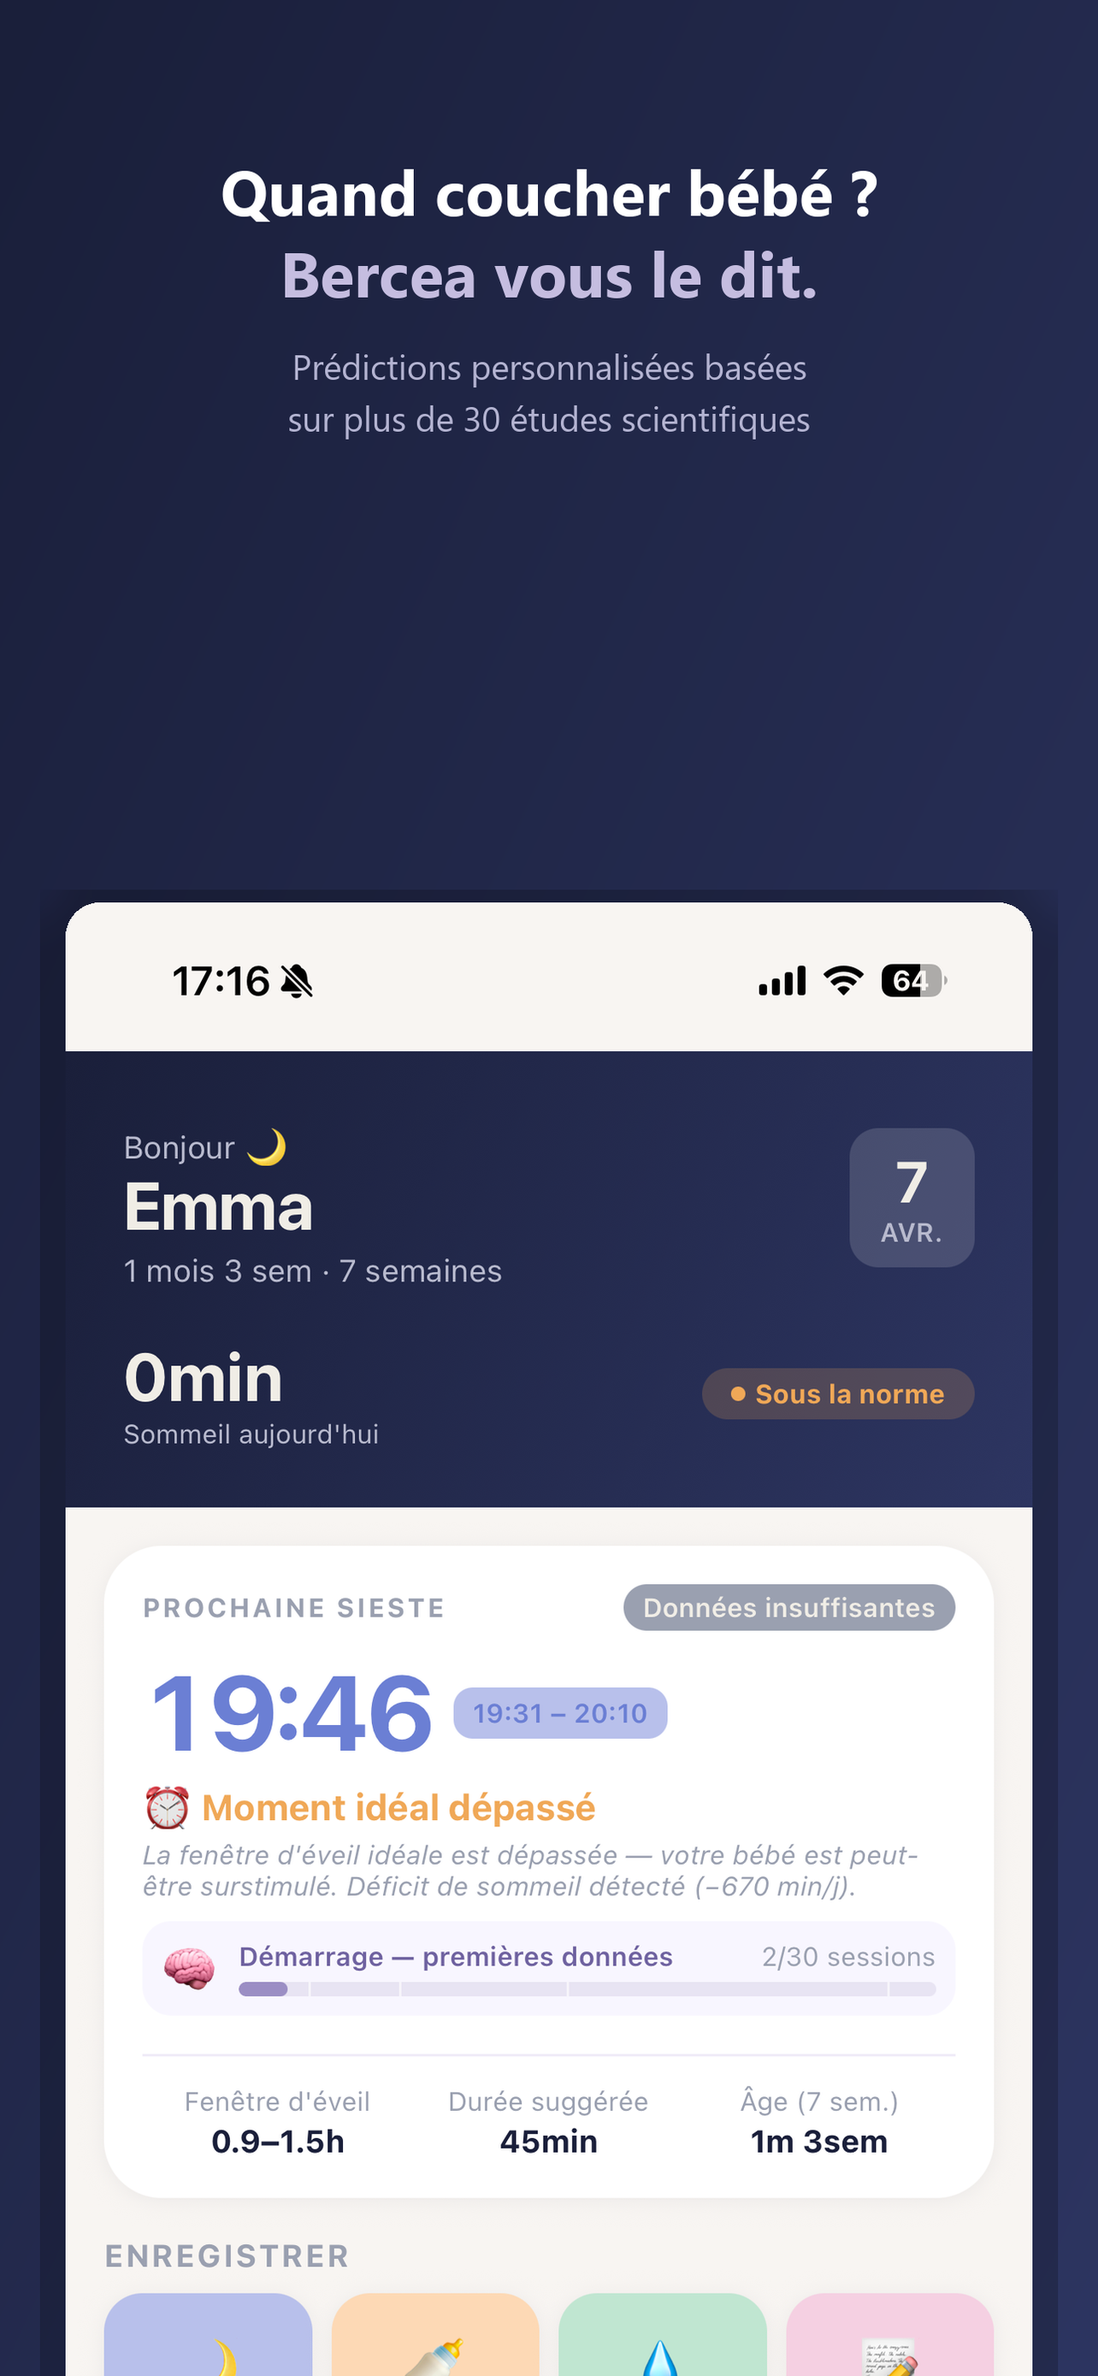
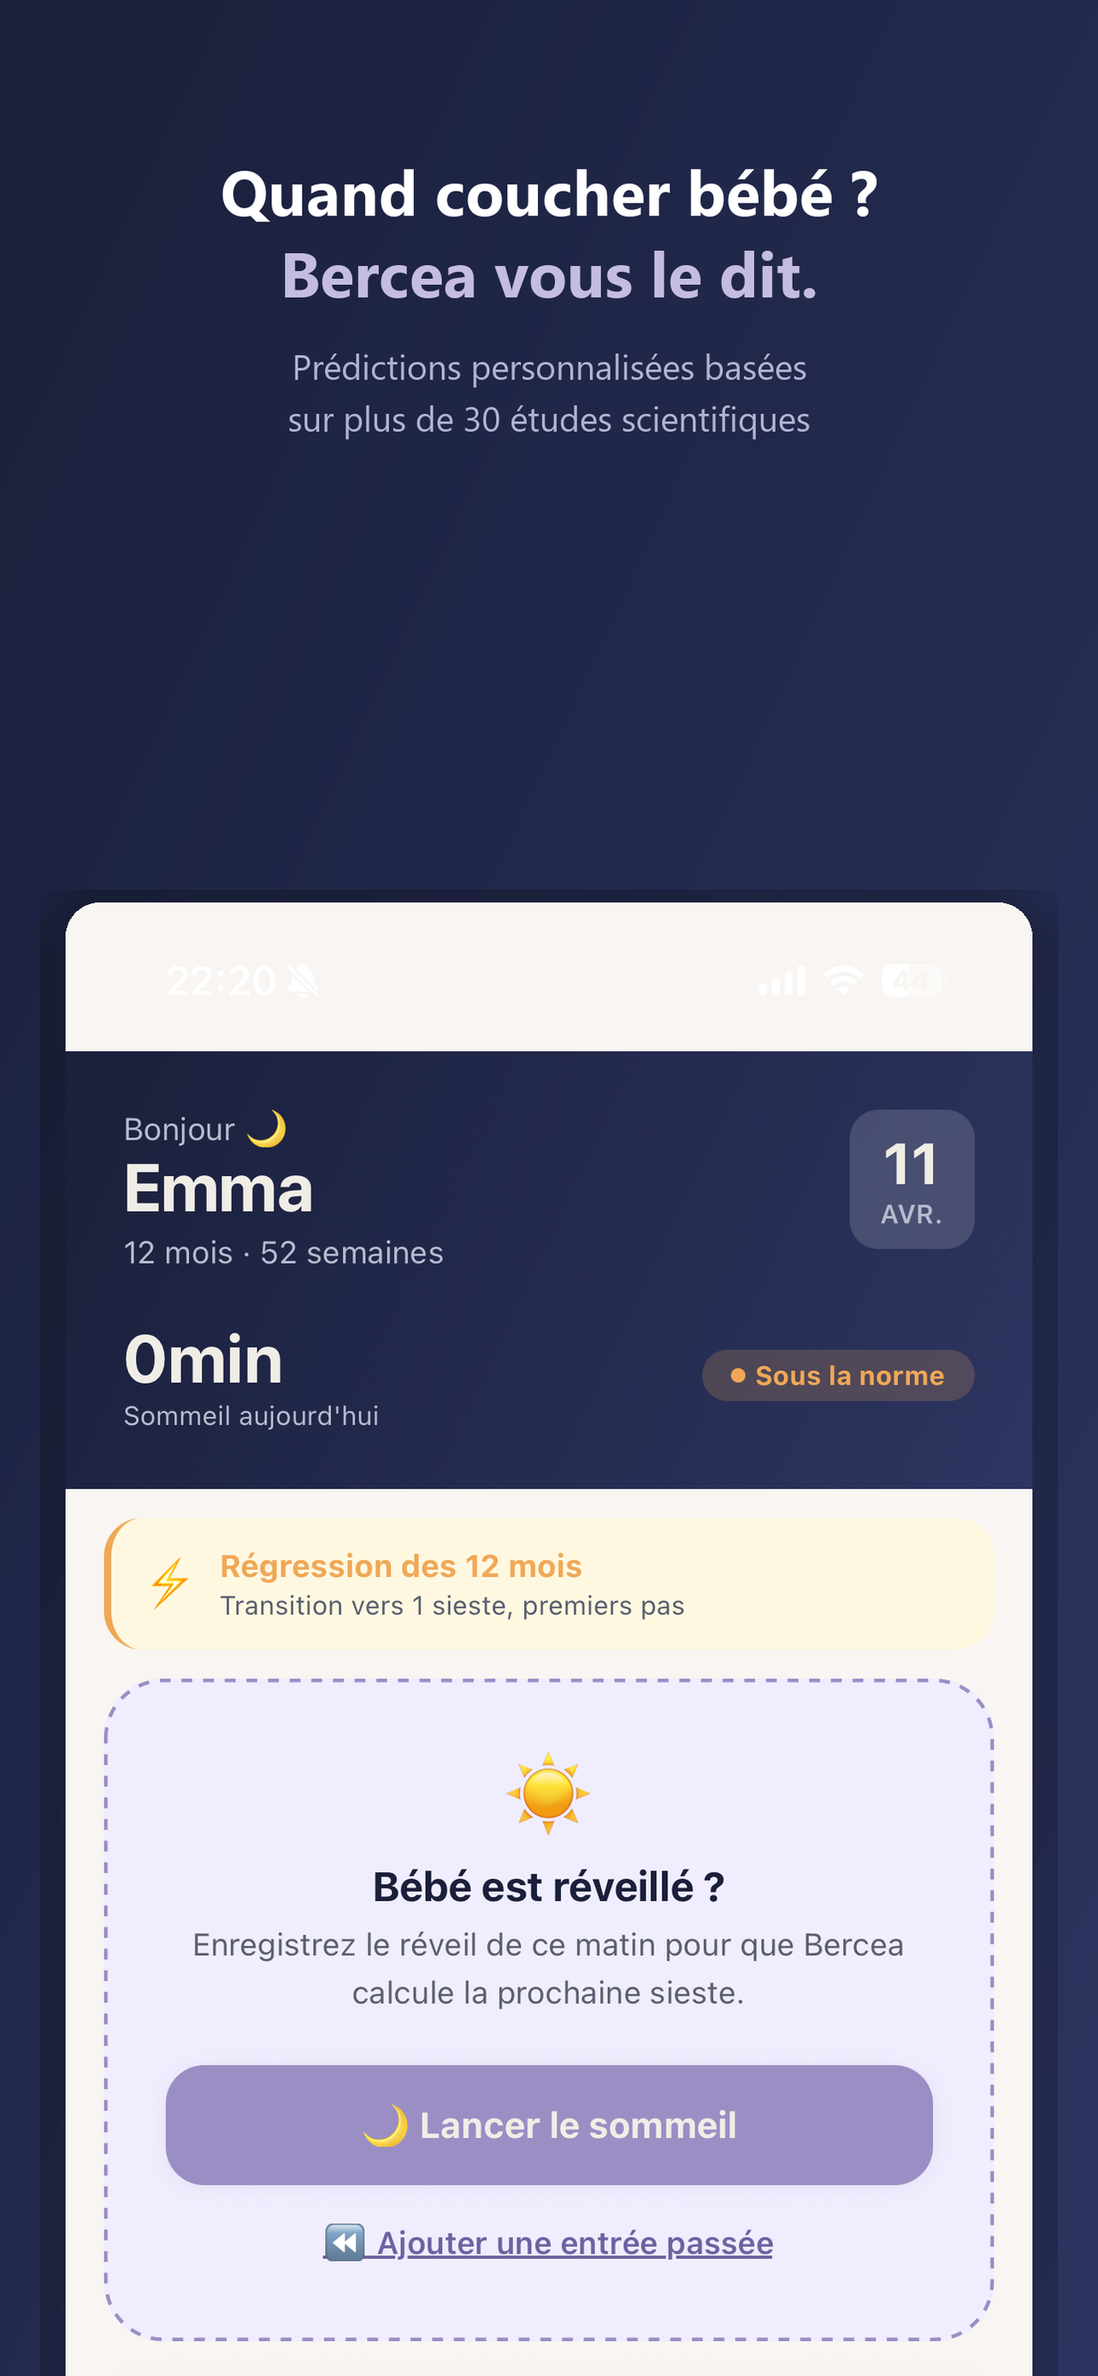
Add bedtime routine + history sections, refresh science pages with 2024-2025 evidence, update screenshots

Changed region(s): [[0.0623, 0.4644, 0.9346, 1.0], [0.6854, 0.4024, 0.8723, 0.4334], [0.1558, 0.4024, 0.2804, 0.4334]]

diff --git a/fr/science.html b/fr/science.html
@@ -45,9 +45,9 @@
       </div>
 
       <div class="science-stats">
-        <div class="stat"><span class="stat-number">30+</span><span class="stat-label">études scientifiques référencées</span></div>
+        <div class="stat"><span class="stat-number">35+</span><span class="stat-label">études scientifiques référencées (2015–2026)</span></div>
         <div class="stat"><span class="stat-number">80 %</span><span class="stat-label">des nouveau-nés calmés en 5 min avec le bruit blanc</span></div>
-        <div class="stat"><span class="stat-number">4</span><span class="stat-label">régressions de sommeil connues (4, 8, 12, 18 mois)</span></div>
+        <div class="stat"><span class="stat-number">70 %</span><span class="stat-label">de données personnelles dans les prédictions après 30 sessions</span></div>
         <div class="stat"><span class="stat-number">0</span><span class="stat-label">donnée personnelle collectée</span></div>
       </div>
     </div>
@@ -69,9 +69,29 @@
       </div>
 
       <div class="science-block">
-        <h3>📉 Les régressions du sommeil</h3>
-        <p>Entre 3 et 5 mois, puis vers 8, 12 et 18 mois, le sommeil des bébés connaît des bouleversements — souvent liés à des sauts de développement cognitif ou moteur. Ces régressions sont normales et temporaires, mais elles peuvent inquiéter les parents qui pensent avoir « cassé » le sommeil de leur enfant.</p>
-        <p>Bercea anticipe ces régressions et vous explique ce qui se passe, pour que vous ne remettiez pas tout en question à chaque réveil supplémentaire.</p>
+        <h3>📉 Les « régressions » du sommeil — ce que dit vraiment la recherche</h3>
+        <p>Contrairement à l'idée reçue, <strong>les régressions à 4, 8, 12 et 18 mois ne sont pas validées par la littérature scientifique</strong>. Une revue 2024 du Dr Jodi Mindell (Children's Hospital of Philadelphia) a analysé les données de milliers de mères et n'a trouvé <em>aucun pic universel</em> de réveils nocturnes à ces âges. Seulement 28–30 % des parents rapportent une détérioration du sommeil à 3–5 mois.</p>
+        <p>Ce qui est réel, en revanche : les <strong>transformations biologiques</strong> sous-jacentes. Vers 3–4 mois, l'architecture du sommeil mûrit. Vers 8–9 mois, l'objet permanent et l'anxiété de séparation s'installent. Vers 18 mois, l'explosion lexicale. Ces transitions <em>peuvent</em> perturber le sommeil — mais elles ne sont pas universelles.</p>
+        <p>Plutôt que de vous alarmer, Bercea utilise ces fenêtres comme des <strong>périodes d'observation</strong> : si votre bébé a des perturbations, c'est probablement lié à un jalon développemental et c'est temporaire. S'il passe sans encombre, parfait.</p>
+      </div>
+
+      <div class="science-block">
+        <h3>🌙 La routine du coucher — l'intervention la mieux prouvée</h3>
+        <p>Parmi toutes les pratiques de sommeil pour bébé, <strong>une seule</strong> a des preuves scientifiques vraiment solides : la routine du coucher constante. Un essai randomisé contrôlé publié en 2024 dans <em>BMC Pediatrics</em> (306 nourrissons) a montré que le groupe intervention (routine structurée) dormait significativement plus longtemps la nuit et avait des réveils plus courts.</p>
+        <p>Le mécanisme est simple : le cerveau du bébé apprend à <strong>anticiper le sommeil</strong> via des indices sensoriels répétés. Bain → massage → histoire → câlin → lumière tamisée. Chaque étape devient un signal : <em>« le sommeil approche »</em>. Le cortisol baisse, la mélatonine monte.</p>
+        <p>Bercea intègre un tracker de routine : vous cochez les étapes réalisées chaque soir, et vous voyez votre <strong>constance sur 7 jours</strong>. L'objectif n'est pas la perfection, mais la régularité — 4 étapes chaque soir valent mieux que 10 un soir sur deux.</p>
+      </div>
+
+      <div class="science-block">
+        <h3>🧠 Le blending personnel — pourquoi Bercea est différent</h3>
+        <p>Un <em>scoping review</em> publié en 2025 dans <em>Frontiers in Neuroscience</em> (35 études analysées) confirme un point crucial : <strong>la variabilité individuelle dépasse la variabilité inter-âge dès 3 mois</strong>. Autrement dit, deux bébés du même âge peuvent avoir des patterns de sommeil très différents.</p>
+        <p>C'est pourquoi Bercea ne se contente pas d'afficher les valeurs moyennes des tableaux scientifiques. L'algorithme combine :</p>
+        <ul>
+          <li><strong>Un prior scientifique</strong> : moyennes OMS/AASM pour l'âge exact</li>
+          <li><strong>Un lissage exponentiel</strong> (λ = 0.85 / jour) sur les 14 derniers jours</li>
+          <li><strong>Un blending progressif</strong> : 0 % perso au démarrage → jusqu'à <strong>70 % perso</strong> après 30 sessions trackées</li>
+        </ul>
+        <p>Plus vous tracez, plus Bercea apprend le rythme propre à votre bébé. L'app s'efface progressivement derrière ses propres observations.</p>
       </div>
 
       <div class="science-block">

diff --git a/en/science.html b/en/science.html
@@ -45,9 +45,9 @@
       </div>
 
       <div class="science-stats">
-        <div class="stat"><span class="stat-number">30+</span><span class="stat-label">scientific studies referenced</span></div>
+        <div class="stat"><span class="stat-number">35+</span><span class="stat-label">scientific studies referenced (2015–2026)</span></div>
         <div class="stat"><span class="stat-number">80%</span><span class="stat-label">of newborns soothed in 5 min with white noise</span></div>
-        <div class="stat"><span class="stat-number">4</span><span class="stat-label">known sleep regressions (4, 8, 12, 18 months)</span></div>
+        <div class="stat"><span class="stat-number">70%</span><span class="stat-label">personal data weight in predictions after 30 sessions</span></div>
         <div class="stat"><span class="stat-number">0</span><span class="stat-label">personal data collected</span></div>
       </div>
     </div>
@@ -69,9 +69,29 @@
       </div>
 
       <div class="science-block">
-        <h3>📉 Sleep regressions</h3>
-        <p>Between 3 and 5 months, and then around 8, 12 and 18 months, baby sleep goes through significant disruptions — often linked to cognitive or motor developmental leaps. These regressions are normal and temporary, but they can worry parents who think they've "broken" their child's sleep.</p>
-        <p>Bercea anticipates these regressions and explains what's happening, so you don't start questioning everything at every extra waking.</p>
+        <h3>📉 Sleep "regressions" — what research actually says</h3>
+        <p>Contrary to popular belief, <strong>regressions at 4, 8, 12 and 18 months are not validated by the scientific literature</strong>. A 2024 review by Dr Jodi Mindell (Children's Hospital of Philadelphia) analyzed data from thousands of mothers and found <em>no universal peak</em> in night wakings at these ages. Only 28–30% of parents report worsened sleep at 3–5 months.</p>
+        <p>What is real: the underlying <strong>biological transformations</strong>. Around 3–4 months, sleep architecture matures. Around 8–9 months, object permanence and separation anxiety emerge. Around 18 months, language explosion. These transitions <em>can</em> disrupt sleep — but they are not universal.</p>
+        <p>Rather than alarming you, Bercea treats these windows as <strong>observation periods</strong>: if your baby shows disruptions, it's probably linked to a developmental milestone and it's temporary. If not, great.</p>
+      </div>
+
+      <div class="science-block">
+        <h3>🌙 Bedtime routine — the best-proven intervention</h3>
+        <p>Among all sleep practices for babies, <strong>only one</strong> has solid scientific evidence: the consistent bedtime routine. A 2024 randomized controlled trial published in <em>BMC Pediatrics</em> (306 infants) showed that the intervention group (structured routine) slept significantly longer at night and had shorter wakings.</p>
+        <p>The mechanism is simple: baby's brain learns to <strong>anticipate sleep</strong> via repeated sensory cues. Bath → massage → story → cuddle → dim lights. Each step becomes a signal: <em>"sleep is coming"</em>. Cortisol drops, melatonin rises.</p>
+        <p>Bercea includes a routine tracker: you check the steps you completed each night, and see your <strong>7-day consistency</strong>. The goal is not perfection but regularity — 4 steps every evening beats 10 steps every other day.</p>
+      </div>
+
+      <div class="science-block">
+        <h3>🧠 Personal blending — what makes Bercea different</h3>
+        <p>A 2025 <em>scoping review</em> published in <em>Frontiers in Neuroscience</em> (35 studies analyzed) confirms a crucial point: <strong>individual variability exceeds inter-age variability from 3 months onwards</strong>. In other words, two babies of the same age can have very different sleep patterns.</p>
+        <p>That's why Bercea doesn't just display the average values from scientific tables. The algorithm combines:</p>
+        <ul>
+          <li><strong>A scientific prior</strong>: WHO/AASM averages for the exact age</li>
+          <li><strong>Exponential smoothing</strong> (λ = 0.85 / day) over the last 14 days</li>
+          <li><strong>Progressive blending</strong>: 0% personal at start → up to <strong>70% personal</strong> after 30 tracked sessions</li>
+        </ul>
+        <p>The more you track, the more Bercea learns your baby's own rhythm. The app gradually steps aside behind its own observations.</p>
       </div>
 
       <div class="science-block">

diff --git a/fr/fonctionnalites.html b/fr/fonctionnalites.html
@@ -67,13 +67,14 @@
 
       <div class="showcase reverse">
         <div class="showcase-text">
-          <span class="eyebrow">02 — Algorithme</span>
-          <h2>Un modèle qui apprend votre bébé</h2>
-          <p>Les premières prédictions s'appuient sur les moyennes scientifiques par âge. Puis, sieste après sieste, elles s'ajustent au rythme réel de votre enfant.</p>
+          <span class="eyebrow">02 — Algorithme personnel</span>
+          <h2>Un modèle qui apprend <em>votre</em> bébé</h2>
+          <p>Les premières prédictions s'appuient sur les moyennes scientifiques par âge (OMS, AASM). Puis, sieste après sieste, un lissage exponentiel affine progressivement les fenêtres d'éveil au rythme réel de votre enfant — jusqu'à <strong>70 % de données personnelles</strong> après un mois de suivi.</p>
           <ul>
-            <li>Personnalisation automatique</li>
-            <li>Détection des régressions (4, 8, 12, 18 mois)</li>
-            <li>Conseils adaptés à l'âge</li>
+            <li>Blending scientifique + personnel (λ = 0.85 / jour)</li>
+            <li>Adaptation aux transitions développementales</li>
+            <li>Facteur circadien activé après 12 semaines</li>
+            <li>Détection de dette de sommeil et de catnap</li>
           </ul>
         </div>
         <div class="showcase-visual">
@@ -118,15 +119,49 @@
         <div class="showcase-text">
           <span class="eyebrow">05 — Science embarquée</span>
           <h2>Les études, à portée de tap</h2>
-          <p>Chaque recommandation est reliée à sa source scientifique. Bercea ne vous dit pas seulement quoi faire : il vous explique pourquoi.</p>
+          <p>Chaque recommandation est reliée à sa source scientifique. Bercea ne vous dit pas seulement quoi faire : il vous explique pourquoi. Intègre les revues les plus récentes (Frontiers 2025, BMC Pediatrics RCT 2024, Nature Scientific Reports 2025).</p>
           <ul>
-            <li>30+ études scientifiques citées</li>
+            <li>35+ études scientifiques citées</li>
+            <li>Articles actualisés avec la recherche 2024–2025</li>
             <li>Fiches pédagogiques par thème</li>
-            <li>Mises à jour régulières</li>
           </ul>
         </div>
         <div class="showcase-visual">
           <img src="../assets/img/screens/science.png" alt="Écran science" loading="lazy">
+        </div>
+      </div>
+
+      <div class="showcase reverse">
+        <div class="showcase-text">
+          <span class="eyebrow">06 — Historique complet</span>
+          <h2>Chaque sieste, chaque nuit, graphée</h2>
+          <p>Graphique hebdomadaire, moyenne journalière, écart à la norme OMS/AASM pour l'âge exact, et détail sieste par sieste. Vous voyez les tendances sur 7 jours, pas juste la nuit d'hier.</p>
+          <ul>
+            <li>Graphique 7 jours interactif</li>
+            <li>Comparaison norme OMS / AASM</li>
+            <li>Détail de chaque sieste (qualité, durée)</li>
+            <li>Correction d'une entrée par simple tap</li>
+          </ul>
+        </div>
+        <div class="showcase-visual">
+          <img src="../assets/img/screens/historique.png" alt="Écran historique" loading="lazy">
+        </div>
+      </div>
+
+      <div class="showcase">
+        <div class="showcase-text">
+          <span class="eyebrow">07 — Routine du coucher</span>
+          <h2>La seule intervention <em>vraiment</em> prouvée</h2>
+          <p>Parmi toutes les pratiques de sommeil, une seule a des preuves scientifiques solides : la <strong>routine du coucher constante</strong>. Un essai randomisé contrôlé publié en 2024 (BMC Pediatrics, 306 nourrissons) montre un gain significatif de sommeil nocturne chez les bébés avec routine vs sans.</p>
+          <ul>
+            <li>Check-list personnalisable : bain, massage, histoire…</li>
+            <li>Barre de constance sur 7 jours</li>
+            <li>Compteur de streak (jours consécutifs)</li>
+            <li>Aucun jugement — l'objectif est la <em>constance</em>, pas la perfection</li>
+          </ul>
+        </div>
+        <div class="showcase-visual">
+          <img src="../assets/img/screens/routine.png" alt="Écran routine du coucher" loading="lazy">
         </div>
       </div>
 

diff --git a/en/features.html b/en/features.html
@@ -67,13 +67,14 @@
 
       <div class="showcase reverse">
         <div class="showcase-text">
-          <span class="eyebrow">02 — Algorithm</span>
-          <h2>A model that learns your baby</h2>
-          <p>The first predictions rely on age-based scientific averages. Then, nap after nap, they adjust to your child's actual rhythm.</p>
+          <span class="eyebrow">02 — Personal algorithm</span>
+          <h2>A model that learns <em>your</em> baby</h2>
+          <p>The first predictions rely on age-based scientific averages (WHO, AASM). Then, nap after nap, exponential smoothing gradually tunes the wake windows to your child's actual rhythm — up to <strong>70% personal data</strong> after a month of tracking.</p>
           <ul>
-            <li>Automatic personalization</li>
-            <li>Sleep regressions detection (4, 8, 12, 18 months)</li>
-            <li>Age-appropriate advice</li>
+            <li>Scientific + personal blending (λ = 0.85 / day)</li>
+            <li>Adapts to developmental transitions</li>
+            <li>Circadian factor activated after 12 weeks</li>
+            <li>Sleep debt and catnap detection</li>
           </ul>
         </div>
         <div class="showcase-visual">
@@ -118,15 +119,49 @@
         <div class="showcase-text">
           <span class="eyebrow">05 — Built-in science</span>
           <h2>Studies, one tap away</h2>
-          <p>Every recommendation links back to its scientific source. Bercea doesn't just tell you what to do — it explains why.</p>
+          <p>Every recommendation links back to its scientific source. Bercea doesn't just tell you what to do — it explains why. Includes the latest reviews (Frontiers 2025, BMC Pediatrics RCT 2024, Nature Scientific Reports 2025).</p>
           <ul>
-            <li>30+ scientific studies referenced</li>
+            <li>35+ scientific studies referenced</li>
+            <li>Articles refreshed with 2024–2025 research</li>
             <li>Topic-based explainers</li>
-            <li>Regular updates</li>
           </ul>
         </div>
         <div class="showcase-visual">
           <img src="../assets/img/screens/science.png" alt="Science screen" loading="lazy">
+        </div>
+      </div>
+
+      <div class="showcase reverse">
+        <div class="showcase-text">
+          <span class="eyebrow">06 — Full history</span>
+          <h2>Every nap and night, charted</h2>
+          <p>Weekly chart, daily averages, deviation from the WHO/AASM norm for the exact age, and detail for each nap. See trends over 7 days, not just last night.</p>
+          <ul>
+            <li>Interactive 7-day chart</li>
+            <li>WHO / AASM norm comparison</li>
+            <li>Per-nap detail (quality, duration)</li>
+            <li>Fix any entry with a single tap</li>
+          </ul>
+        </div>
+        <div class="showcase-visual">
+          <img src="../assets/img/screens/historique.png" alt="History screen" loading="lazy">
+        </div>
+      </div>
+
+      <div class="showcase">
+        <div class="showcase-text">
+          <span class="eyebrow">07 — Bedtime routine</span>
+          <h2>The only <em>truly</em> proven intervention</h2>
+          <p>Among all sleep practices, only one has solid scientific evidence: the <strong>consistent bedtime routine</strong>. A 2024 randomized controlled trial (BMC Pediatrics, 306 infants) showed a significant gain in nighttime sleep for babies with a routine vs. without.</p>
+          <ul>
+            <li>Customizable checklist: bath, massage, story…</li>
+            <li>7-day consistency bar</li>
+            <li>Streak counter (consecutive days)</li>
+            <li>No judgment — the goal is <em>consistency</em>, not perfection</li>
+          </ul>
+        </div>
+        <div class="showcase-visual">
+          <img src="../assets/img/screens/routine.png" alt="Bedtime routine screen" loading="lazy">
         </div>
       </div>
 
